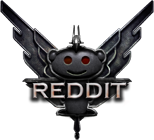
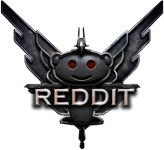
Changed header to 180px total. Changed header

diff --git a/sass/_config.scss b/sass/_config.scss
@@ -20,11 +20,11 @@ $display_elite_image: true; // Elite Dangerous Euro-Caps image in middle of bann
 $header_link_type: original_elite; //Choices: original_elite (TODO: Implement overwatch_style, second_bar, minimalistic)
 
 // Header
-$header_height: 150px;
+$header_height: 160px;
 $header_padding_top: 20px;
 $header_total_height: $header_height + $header_padding_top;
-$header_display_image_width: 307px;
-$header_display_image_height: 52px;
+$header_display_image_height: 54px;
+$header_display_image_width: 384px;
 
 // Flairs
 $link_flair_type: right_orange; // right_orange, overwatch_style, colored_labels
